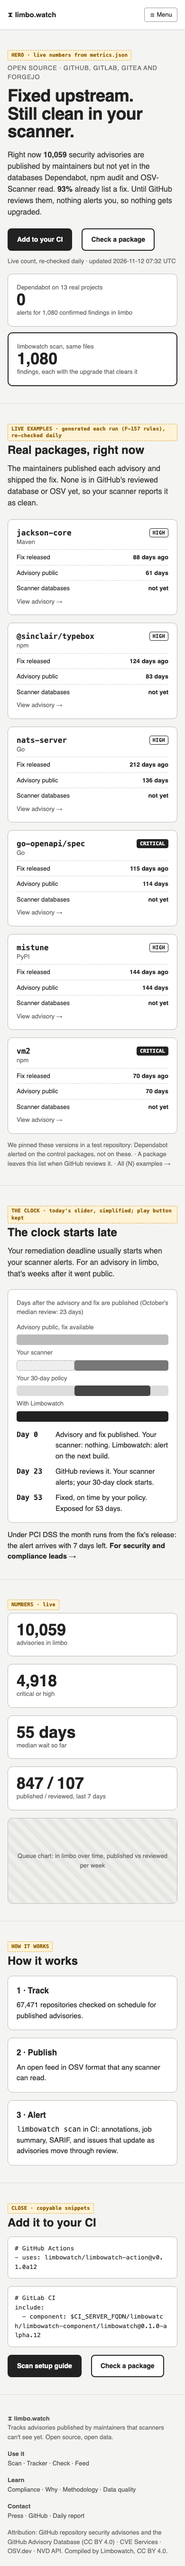
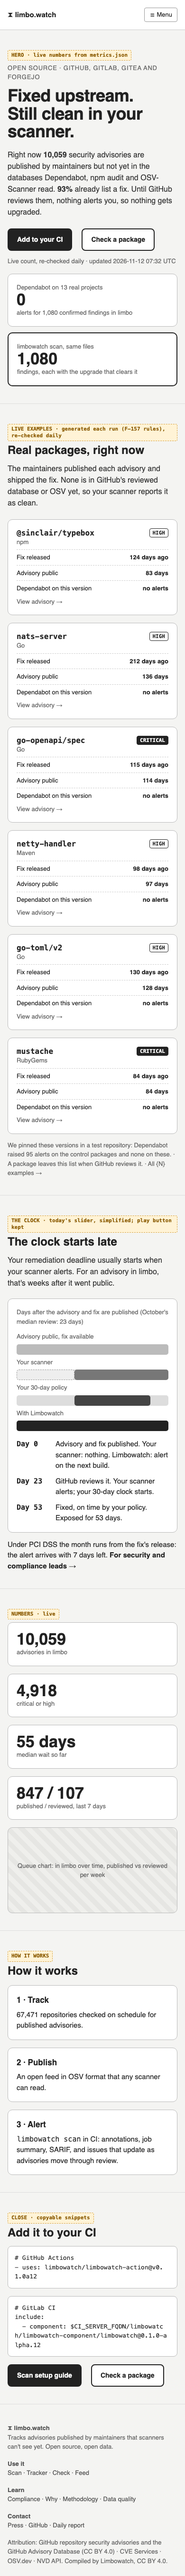
FINDINGS F-158: Dependabot on the examples; content and wireframe use the 8 clean ones
Dependabot raised 95 alerts on the controls and none for the 11 advisories
in limbo; for jackson-core, vm2 and mistune it alerts on other reviewed
advisories whose fix is as new or newer, so those leave the examples.
The generated examples will skip such versions (plan §13.21).

diff --git a/docs/FINDINGS.md b/docs/FINDINGS.md
@@ -2379,7 +2379,7 @@ Answered:
 - **Sources:** [BOD 26-04](https://www.cisa.gov/news-events/directives/bod-26-04-prioritizing-security-updates-based-risk) and its Table 1 image; [BOD 19-02](https://www.cisa.gov/news-events/directives/bod-19-02-vulnerability-remediation-requirements-internet-accessible-systems); [BOD 22-01](https://www.cisa.gov/news-events/directives/bod-22-01-reducing-significant-risk-known-exploited-vulnerabilities).
 
 ### F-157
-- **Date:** 2026-11-12 · **Status:** confirmed (live checks; Dependabot not yet tested on these packages)
+- **Date:** 2026-11-12 · **Status:** confirmed (live checks; Dependabot tested in [F-158](#f-158))
 - **Question:** For the website: which well-known packages have a high or critical advisory, published by their own maintainers and fixed, that scanners still don't report?
 - **Method:**
   - **Candidates:** the live `press/limbo.csv` of 2026-11-12 07:32 UTC: pending review (not likely permanent), high or critical, a fixed version entered, an ecosystem GitHub reviews, waiting at least 60 days. 2,195 advisories, 921 packages.
@@ -2409,6 +2409,21 @@ Answered:
 - **Caveats:** dependent-repo counts are ecosyste.ms's and include indirect use; they rank, they don't prove exposure. The ranges are as the maintainers entered them, unreviewed. Not yet shown on these packages: that Dependabot stays silent. GitHub's documentation says Dependabot alerts come from reviewed advisories, all 11 are absent from the reviewed database, and [F-112](#f-112) found 0 alerts for 1,080 confirmed findings in limbo; a private repository pinning these versions, with a control package per ecosystem, would show it directly (waiting for the maintainer's go-ahead).
 - **Implication:** the website can name real, popular packages with high or critical advisories, fixed upstream for weeks to months, that scanners still call clean. Re-check before publishing: these leave limbo when GitHub reviews them.
 - **Sources:** the API responses above (GitHub, OSV, deps.dev, RubyGems, ecosyste.ms); raw output in the session scratchpad.
+
+### F-158
+- **Date:** 2026-11-12 · **Status:** confirmed (direct observation)
+- **Question:** Does Dependabot alert on the F-157 examples, and does it lead to their fix some other way?
+- **Method:** a new private repository, `limbowatch/limbo-examples`, with Dependabot alerts turned on (`PUT /repos/{r}/vulnerability-alerts`) before the first push. It holds only dependency files pinning the last affected version of each F-157 example (`pom.xml`, `package-lock.json`, `requirements.txt`, `go.mod`, `Gemfile.lock`), plus one control per ecosystem with reviewed advisories at that version (jackson-databind 2.9.10, lodash 4.17.20, requests 2.31.0, golang.org/x/net v0.17.0, rack 2.2.0; 97 reviewed advisories between them by `GET /advisories?type=reviewed&affects=`). Read `GET /repos/{r}/dependency-graph/sbom` and all of `GET /repos/{r}/dependabot/alerts`.
+- **Result:**
+  - **The dependency graph** listed all 16 packages at the pinned versions within a minute of the push (netty-handler as `4.1.136`, without `.Final`).
+  - **No alerts for 23 minutes after the first push, controls included.** A second push that changed a manifest (one comment line) produced alerts 2.5 minutes later. The first push alone didn't start Dependabot's scan, although alerts were on before it.
+  - **111 alerts in all:** 95 on the controls (jackson-databind 50, rack 34, lodash 4, golang.org/x/net 4, requests 3), so Dependabot was working.
+  - **None for any of the 11 advisories in limbo.**
+  - **For 3 examples, Dependabot alerts on other, reviewed advisories whose fix is as new or newer:** jackson-core 2.18.9 (2 high, fixed in 2.18.11; the limbo fix is 2.18.10), vm2 3.12.0 (4, fixed in 3.12.1 and 3.12.2; the limbo fix is 3.12.1), mistune 3.2.1 (10, fixed in 3.3.0; the limbo fix GHSA-jxhr-4j38-fpxg is 3.3.0, though other limbo advisories need 3.3.4). A Dependabot user upgrading as told would get those limbo fixes by coincidence.
+  - **For the other 8, Dependabot raised nothing:** @sinclair/typebox 0.34.51, netty-handler 4.1.136.Final, nats-server v2.12.6, go-openapi/spec v0.22.4, go-toml/v2 v2.4.2, mustache 1.1.2, rubyntlm 0.6.5, scapy 2.7.0.
+- **Caveats:** one repository, alerts only (not security updates); the delayed start may be a one-off, but [F-090](#f-090) saw a similar need for a manifest-changing commit.
+- **Implication:** the site's examples must be versions Dependabot says nothing about. The generated examples will skip a version when a reviewed advisory already asks for an upgrade to the limbo fix or past it (`GET /advisories?type=reviewed&affects=<package>@<version>`, compare patched versions with the ecosystem's rules). For F-157's list that keeps typebox, netty-handler, nats-server, go-openapi/spec, go-toml, mustache, rubyntlm and scapy. For scripts that create a test repository: push a manifest change after the first push, and wait for the control alerts before reading the rest.
+- **Sources:** the API responses above; raw output in the session scratchpad.
 
 ## Archive
 

diff --git a/docs/redesign/CONTENT.md b/docs/redesign/CONTENT.md
@@ -40,18 +40,20 @@ Home is `/`. The 25,000 advisory pages (`/advisory/<GHSA>/`) get a new template.
 
 Cards, one per package: name, ecosystem, severity, "fix released N days ago", "advisory published N days ago", "scanner databases: not yet", and a link to the advisory. Today's would be:
 
-| Package | Severity | Fix released | Advisory waiting |
-|---|---|---|---|
-| jackson-core (Maven) | high | 88 days ago | 61 days |
-| @sinclair/typebox (npm) | high | 124 days ago | 83 days |
-| nats-server (Go) | high | 212 days ago | 136 days |
-| go-openapi/spec (Go) | critical | 115 days ago | 114 days |
-| mistune (PyPI) | high | 144 days ago | 144 days |
-| vm2 (npm) | critical | 70 days ago | 70 days |
+| Package | Severity | Fix released | Advisory waiting | Dependabot on that version |
+|---|---|---|---|---|
+| @sinclair/typebox (npm) | high | 124 days ago | 83 days | no alerts |
+| nats-server (Go) | high | 212 days ago | 136 days | no alerts |
+| go-openapi/spec (Go) | critical | 115 days ago | 114 days | no alerts |
+| netty-handler (Maven) | high | 98 days ago | 97 days | no alerts |
+| go-toml/v2 (Go) | high | 130 days ago | 128 days | no alerts |
+| mustache (RubyGems) | critical | 84 days ago | 84 days | no alerts |
+
+Not used, though in limbo: jackson-core, vm2 and mistune. Dependabot alerts on those versions for other, reviewed advisories whose fix is as new or newer, so its users get the limbo fix by coincidence (F-158). The generated list skips such versions.
 
 Caption: The maintainers published each advisory and shipped the fix. None is in GitHub's reviewed database or OSV yet, so the scanners above don't report it. Re-checked daily; a package leaves this list when GitHub reviews it.
 
-Proof line, once step 0 is in: "We pinned these versions in a test repository. Dependabot alerted on the control packages and not on these." (F-157 follow-up.)
+Proof line: "We pinned these versions in a test repository. Dependabot raised 95 alerts on the control packages and none on these." (F-158)
 
 **The clock starts late** (today's slider, simplified)
 

diff --git a/docs/PHASE0_PLAN.md b/docs/PHASE0_PLAN.md
@@ -406,7 +406,7 @@ Recommended defaults are in bold.
     2. **Design system:** type scale, colour tokens (dark and light), spacing, components (stat, timeline, example card, code block, table), from the current brand: hourglass mark, amber accent.
     3. **Pages:**
        - **Home:** the story above, the live count, live examples, the compliance clock (today's slider, corrected with BOD 26-04 and F-134), how it works in three steps, and two actions (add to CI, check a package).
-       - **Examples, generated:** `limbowatch publish` picks them from the tracker state each run with the F-157 rules (pending review, high or critical, fixed, at least 60 days, filed by the package's own repository), ranked by usage. That needs dependent counts per package, from ecosyste.ms, which the tracker already reads. Nothing is hard-coded, so examples leave the page when GitHub reviews them. Advisory text isn't shown (F-047); each example links to the advisory.
+       - **Examples, generated:** `limbowatch publish` picks them from the tracker state each run with the F-157 rules (pending review, high or critical, fixed, at least 60 days, filed by the package's own repository), ranked by usage, and skip a version for which a reviewed advisory already asks for an upgrade to the limbo fix or past it, because Dependabot would lead there anyway (F-158). That needs dependent counts per package, from ecosyste.ms, which the tracker already reads. Nothing is hard-coded, so examples leave the page when GitHub reviews them. Advisory text isn't shown (F-047); each example links to the advisory.
        - **Security and compliance (new):** the clock under SOC 2, PCI DSS and BOD 26-04, quoted from the sources, with "not audit advice".
        - **Scan:** the terminal, pull-request and merge-request views regenerated from the current release (today's show 0.1.0a5 and OSV-Scanner 2.7.0), and tabs for GitHub, GitLab, Gitea and the CLI.
        - **Tracker and Check a package:** restyled; a "fixed upstream" filter on the tracker.
